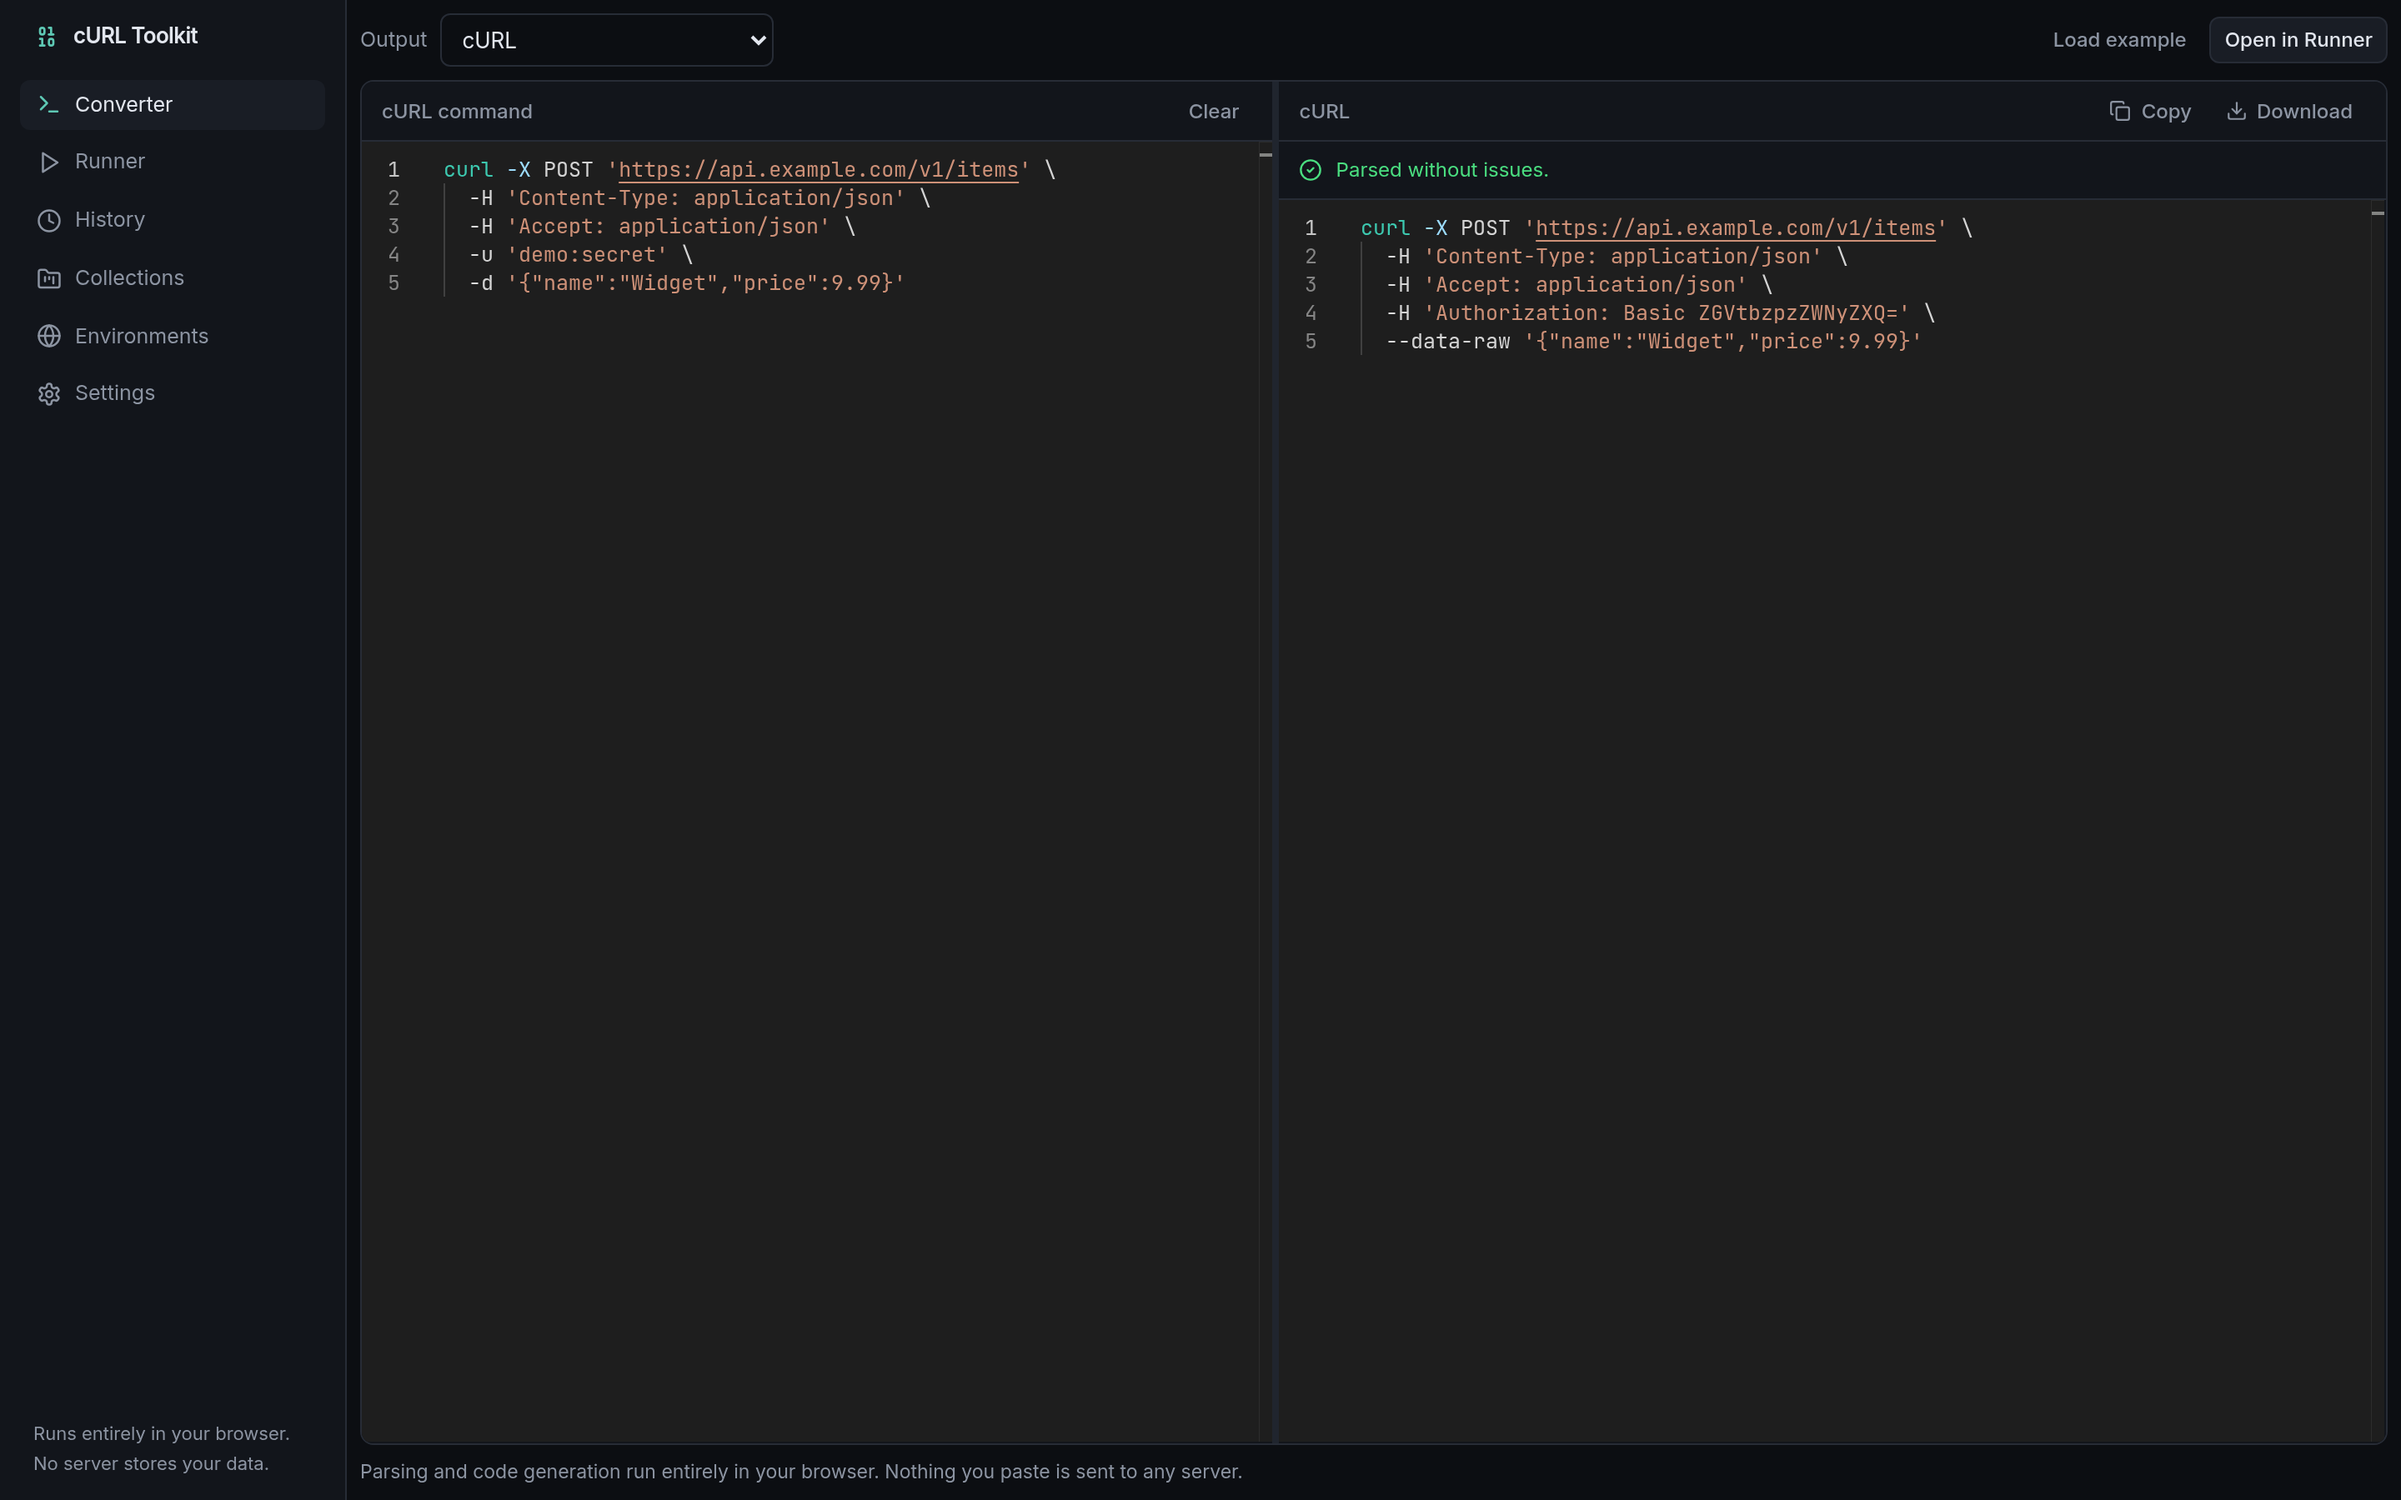
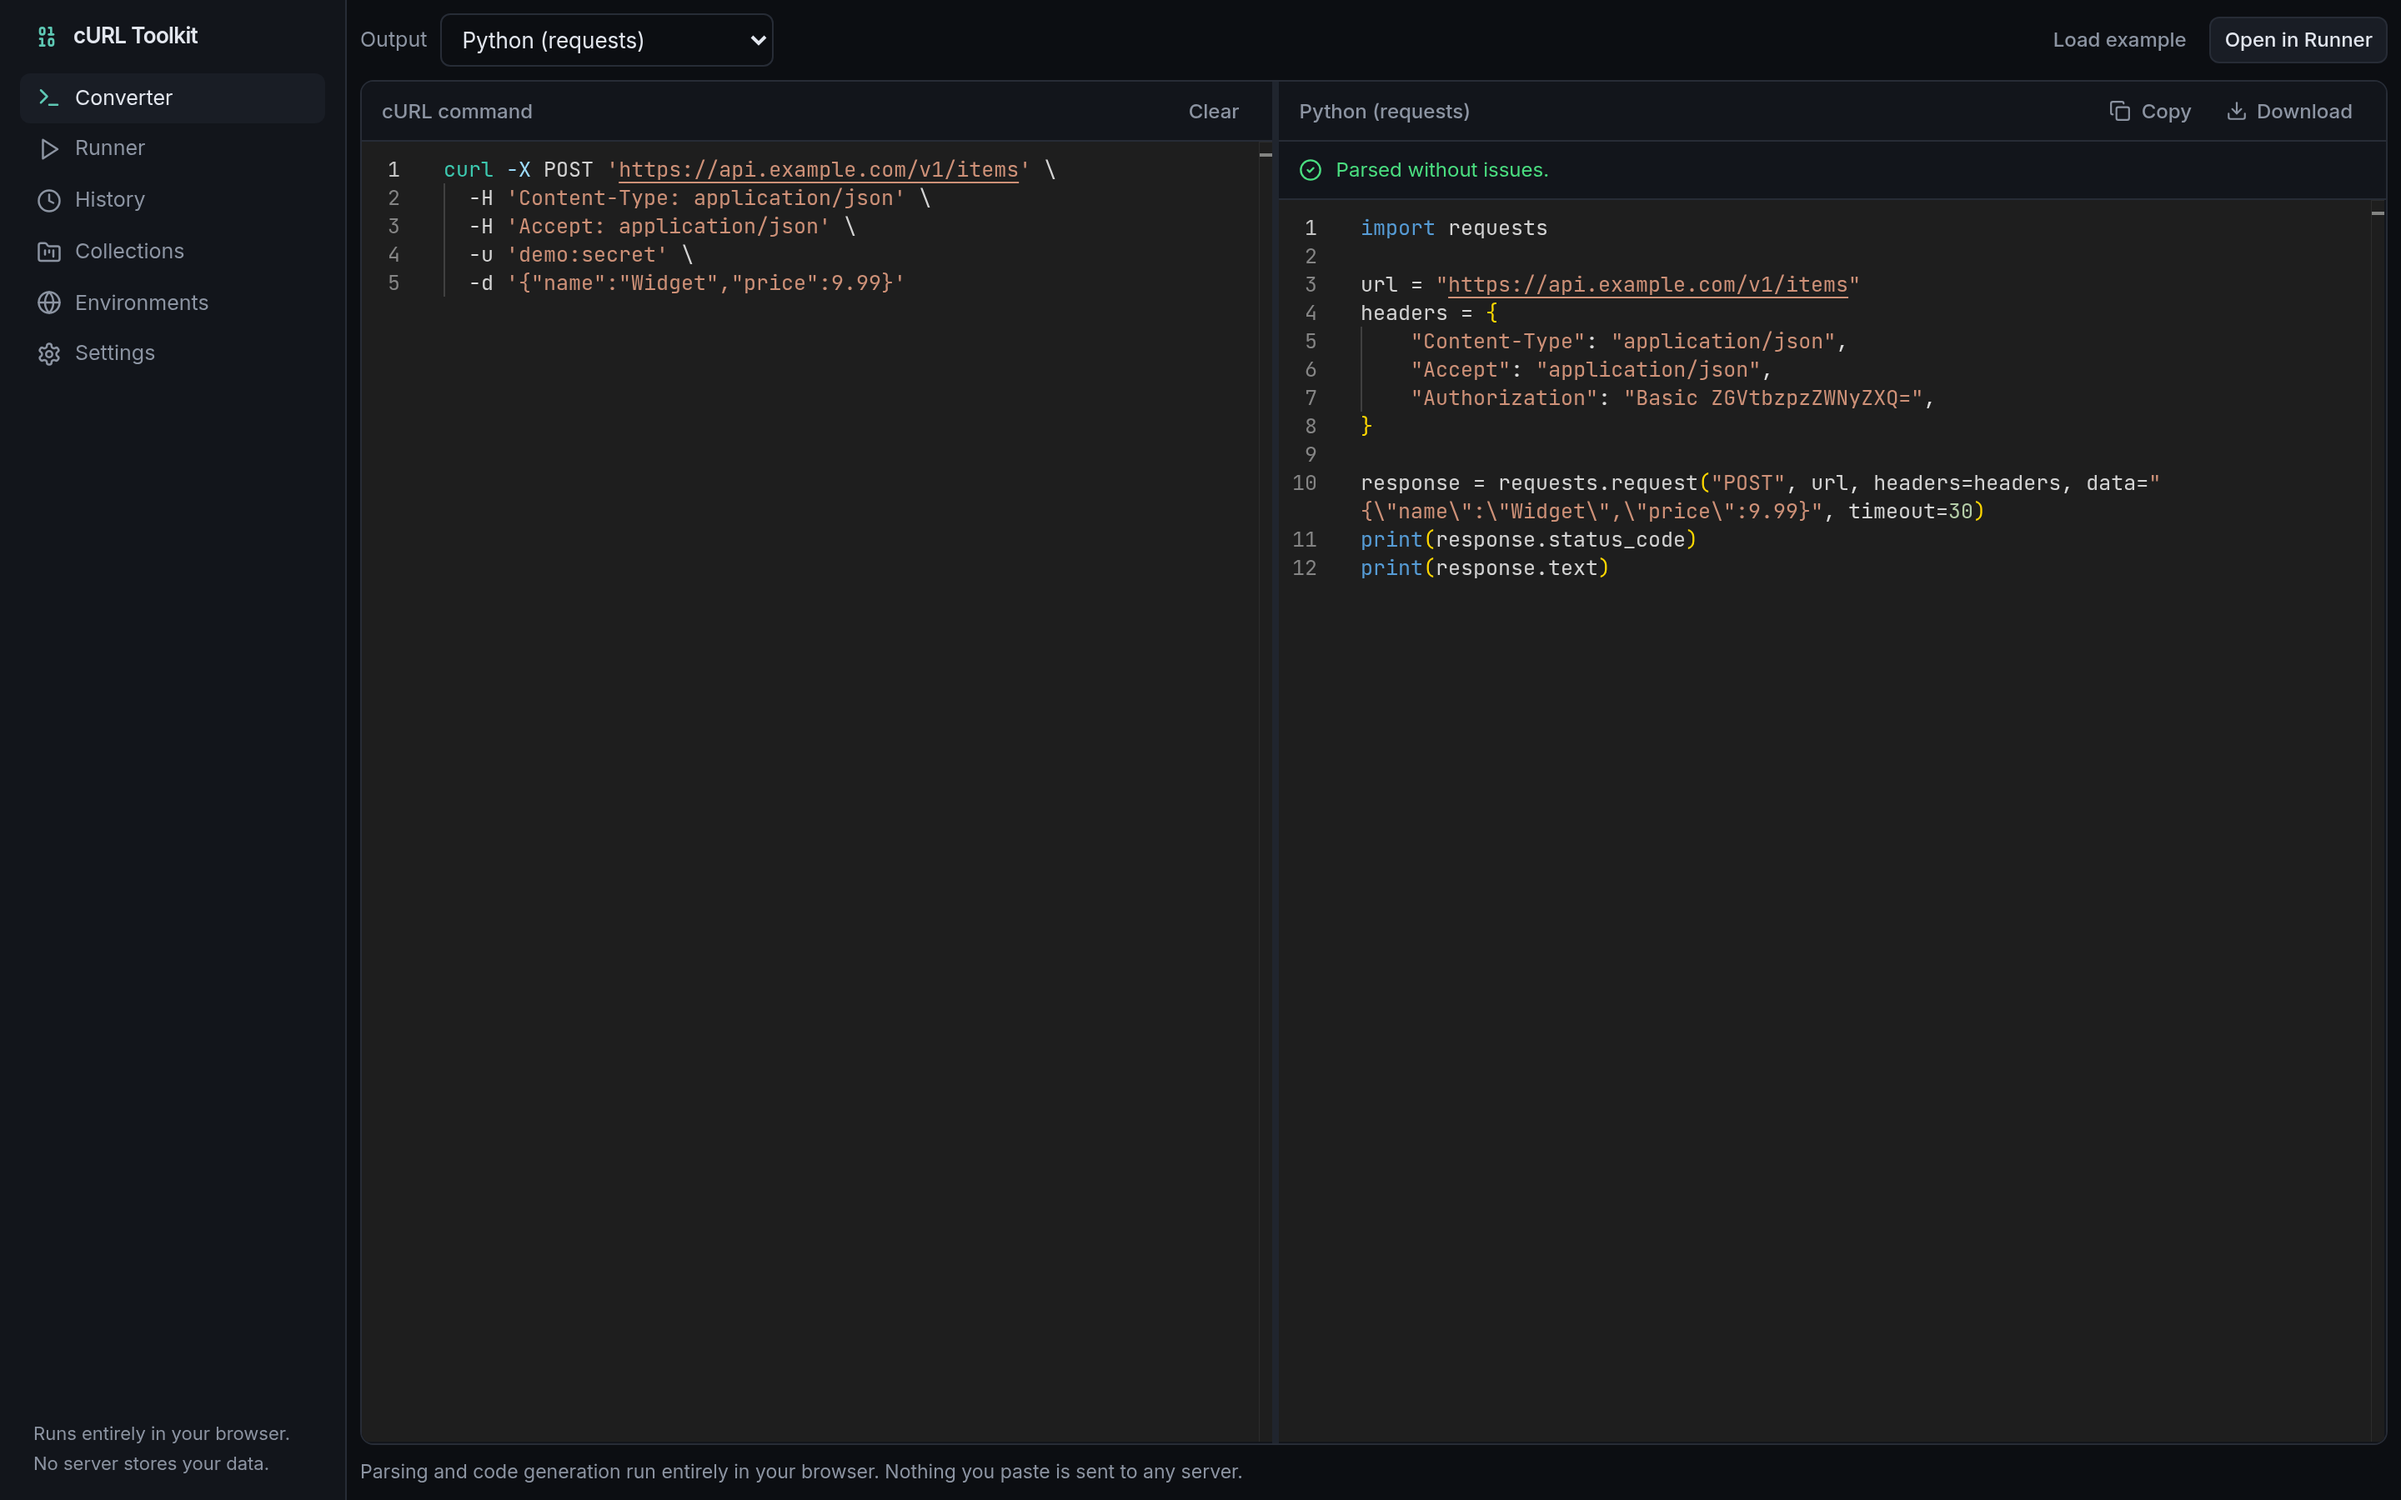
README rewrite, refreshed screenshot with Python default

diff --git a/README.md b/README.md
@@ -1,38 +1,81 @@
 # cURL Toolkit
 
-A client-side cURL converter and API testing client. All parsing, code generation, HTTP requests and storage run in the browser. There is no backend.
+**[Open the app →](https://nullstacks.github.io/curl-toolkit/)**
 
-## Run
+Paste a cURL command, get working code in 18 languages or request formats — Python `requests` by default. Then edit the request, send it, and keep it as a saved request, all in the browser. There is no backend, no account, and nothing you paste leaves the page.
 
-    npm install
-    npm run dev        # local development
-    npm test           # Vitest: parser, codegen, persistence, Fetch runner
-    npm run build      # type-check, then static build into dist/
+![cURL Toolkit](docs/screenshot.png)
 
-Deploy the contents of `dist/` to GitHub Pages, Cloudflare Pages, Vercel or Netlify. The build uses relative asset paths (`base: './'`), so it works from a subdirectory. No server, function or rewrite rule is required.
+## What it does
+
+**Convert.** Paste a cURL command and the left pane parses it into a structured request: method, URL, query params, headers, cookies, auth, and body (raw JSON, form-urlencoded, multipart, binary). Pick any output language and the right pane regenerates as you type. Anything the parser cannot map is surfaced as a warning with a reason — options are never silently dropped.
+
+**Run.** The same parsed request opens in the Runner with editable tabs for Params, Headers, Cookies, Auth, Body and per-request Settings. Send it with `fetch`, read the status, timing, size, headers and pretty-printed body.
+
+**Keep.** Saved requests go into collections with folders, favourites and search. Every send lands in history. Environments hold `{{variables}}` with secret flags. Everything is stored in IndexedDB and can be exported to a JSON backup.
+
+The layout is responsive: side-by-side editors and a resizable splitter on desktop, a stacked single-column flow with a vertical splitter below 768px.
+
+## Output formats
+
+Shell: cURL, Wget, HTTPie, PowerShell
+
+Scripting: **Python (requests) — default**, JavaScript (fetch), Node.js (fetch), Ruby (Net::HTTP), PHP (cURL)
+
+Compiled: Go, Java (HttpClient), C# (HttpClient), Rust (reqwest)
+
+Mobile: Swift (URLSession), Kotlin (java.net), Dart (http)
+
+Data: raw HTTP, HAR (HTTP Archive)
+
+All generators render from one language-neutral IR (`src/lib/codegen/ir.ts`), so a fix to request semantics lands in every language at once. The cURL round trip (parse → IR → generate → parse) is covered by tests.
+
+## Security notes
+
+- Passwords, bearer tokens, API key values, cookies and secret-looking headers are **masked before anything is written to IndexedDB**. Settings can drop them entirely instead of masking.
+- Requests whose secrets were masked are flagged in the UI, so you know to re-enter them before sending.
+- There is no server and no telemetry. The only third-party request the page makes is the Google Fonts stylesheet for Inter and JetBrains Mono (which reveals your IP to Google, like any font CDN); self-host the two fonts if you want zero external requests.
+- Local data is **not encrypted**: anything in this browser profile can read it. Do not keep production credentials on a shared machine.
+- Environment variables marked secret are stored in clear text — the flag only hides the value in the UI.
+
+## Known limits (browser sandbox)
+
+These are browser restrictions, not missing features. The app flags them rather than pretending to send them:
+
+- `Host`, `Cookie`, `Origin`, `User-Agent`, `Content-Length`, `Referer` and similar headers cannot be set by script. They are shown and flagged, not sent.
+- Only `http:` and `https:` are supported.
+- No client certificates, proxies, custom CA bundles, `--insecure`, DNS overrides, or local file uploads.
+- CORS is real and cannot be bypassed. Requests to servers without permissive CORS headers fail in the browser; those are classified as network errors with an explanation. Response headers are readable only when the server sends `Access-Control-Expose-Headers`.
+- gRPC, HTTP/2-only endpoints and WebSocket upgrades are out of scope.
 
 ## What runs where
 
 - `src/lib/curl/parser.ts` tokenises a shell command and maps options to an editable request. Unsupported options are returned as data with a reason, never silently dropped.
-- `src/lib/codegen/` builds one language-neutral intermediate representation (`ir.ts`) and renders it per language. The cURL round trip is covered by tests.
+- `src/lib/codegen/` builds one language-neutral intermediate representation (`ir.ts`) and renders it per language.
 - `src/lib/http/prepare.ts` builds the exact method, URL, headers and body that will be sent.
-- `src/lib/http/runner.ts` sends the request with `fetch`, using `AbortController` for timeouts and cancellation. It classifies failures as cancelled, timeout, network or invalid. Network errors get a CORS explanation. The app does not and cannot bypass CORS.
+- `src/lib/http/runner.ts` sends the request with `fetch`, using `AbortController` for timeouts and cancellation. It classifies failures as cancelled, timeout, network or invalid.
 - `src/lib/storage/` holds the Dexie (IndexedDB) schema, secret redaction, and backup import/export.
 
-## Security notes
+## Run locally
 
-- Passwords, bearer tokens, API key values, cookies and secret-looking headers are masked before anything is written to IndexedDB. Enable "Exclude sensitive data" in Settings to drop them entirely.
-- Masked requests are flagged so the user knows to re-enter secrets.
-- Local data is not encrypted. Anyone with access to this browser profile can read it. Do not keep production credentials on a shared machine.
-- Environment variables marked "secret" are stored in IndexedDB in clear text; the flag only hides the value in the UI.
+```bash
+npm install
+npm run dev        # Vite dev server
+npm test           # Vitest: parser, codegen, persistence, fetch runner
+npm run build      # type-check, then static build into dist/
+npm run preview    # serve dist/
+```
 
-## Known limits
+## Deploy
 
-- Browsers do not allow scripts to set `Host`, `Cookie`, `Origin`, `User-Agent`, `Content-Length` and similar headers. Those are shown and flagged, not sent.
-- Only `http:` and `https:` URLs are supported.
-- Client certificates, proxies, custom CA bundles, `--insecure`, DNS overrides and local file uploads cannot be reproduced in the browser.
-- Responses are readable only for CORS-safelisted headers unless the server sends `Access-Control-Expose-Headers`.
+The build uses relative asset paths (`base: './'`), so `dist/` works from a subdirectory with no rewrite rules. Drop it on GitHub Pages, Cloudflare Pages, Netlify, Vercel or any static host.
 
-## Status
+This repo deploys through `.github/workflows/deploy.yml`: every push to `main` runs the tests, builds, and publishes `dist/` to the `gh-pages` branch, which GitHub Pages serves.
 
-See the accompanying notes for what is implemented and what is not.
+## Stack
+
+React 18, TypeScript, Vite, Tailwind, Zustand for app state, Dexie (IndexedDB) for storage, Monaco for the editors, Lucide for icons. 34 tests across the parser, generators, persistence layer and request runner.
+
+## License
+
+MIT
